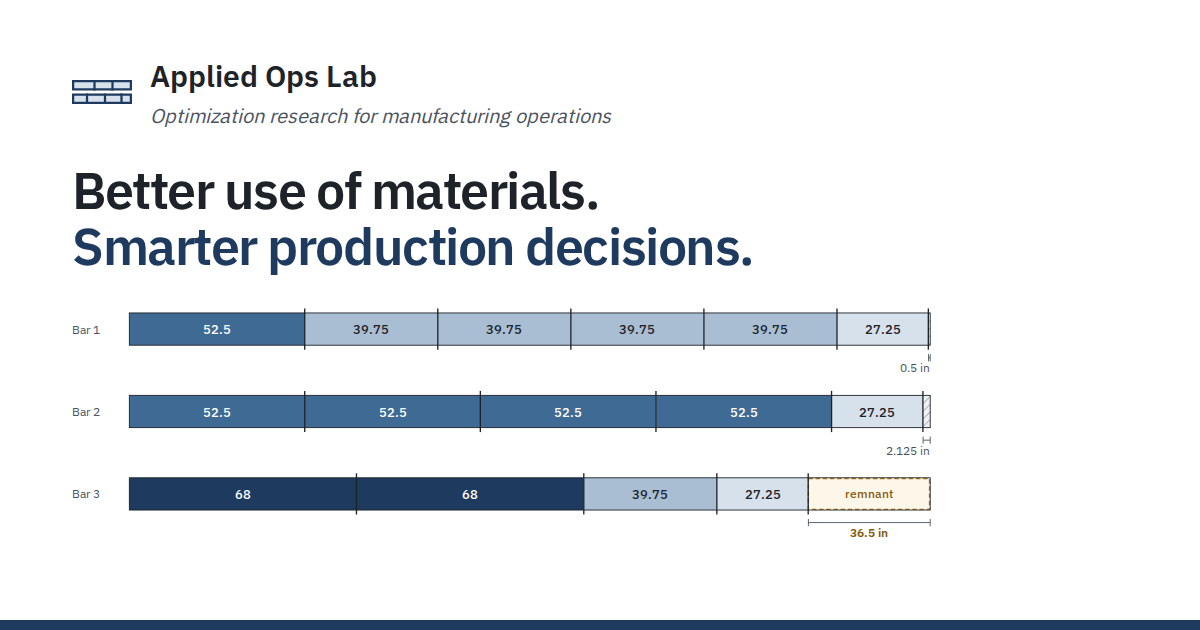
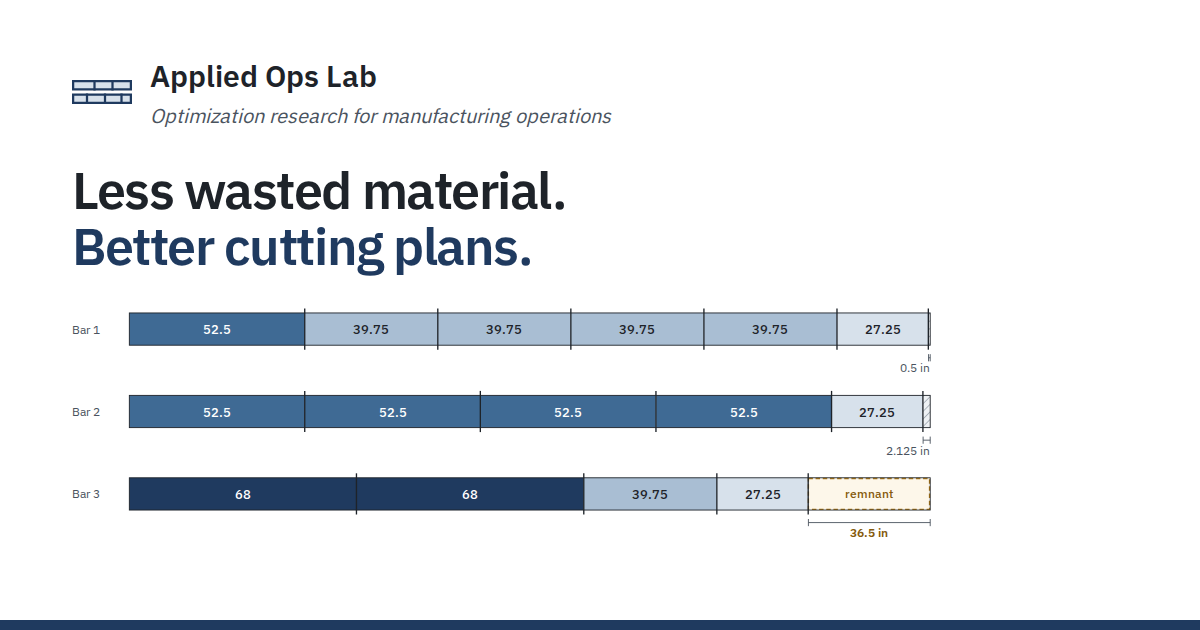
Refine copy for fabrication-shop outreach
- Hero: "Less wasted material. Better cutting plans." with a description
  centred on cutting-stock utilization and reusable offcuts.
- About: introduce Greg as the researcher behind Applied Ops Lab.
- Contact: ask whether cutting plans are still adjusted by hand, in a
  conversational, no-pitch tone. Email link and subject unchanged.
- Figure 1: explain beneath the diagram that both plans use the same
  stock and planning across orders preserves one larger remnant.
- Research areas: label remnant reuse as secondary, scheduling as
  exploratory.
- Update meta/OG descriptions and regenerate the OG image.
- Build: fail if the data stops supporting the figure's explanation
  (equal bar counts, one reusable remnant only when planned).

Changed region(s): [[0.0617, 0.3619, 0.6167, 0.4524], [0.0617, 0.2714, 0.4933, 0.3317]]

diff --git a/src/index.html b/src/index.html
@@ -4,14 +4,14 @@
   <meta charset="utf-8">
   <meta name="viewport" content="width=device-width, initial-scale=1">
   <title>Applied Ops Lab | Practical Manufacturing Optimization Research</title>
-  <meta name="description" content="Applied Ops Lab is an independent applied optimization research initiative in Morris County, New Jersey, studying cutting plans, material remnants, and production scheduling in fabrication shops.">
+  <meta name="description" content="Applied Ops Lab is independent optimization research in Morris County, New Jersey, exploring cutting-stock plans, reusable offcuts, and production planning for fabrication shops.">
   <link rel="canonical" href="https://appliedopslab.com/">
   <meta name="theme-color" content="#ffffff">
 
   <meta property="og:type" content="website">
   <meta property="og:site_name" content="Applied Ops Lab">
   <meta property="og:title" content="Applied Ops Lab | Practical Manufacturing Optimization Research">
-  <meta property="og:description" content="Independent applied optimization research on cutting plans, material waste, and production scheduling for manufacturing shops. Morris County, New Jersey.">
+  <meta property="og:description" content="Independent optimization research on cutting plans, reusable offcuts, and production planning for fabrication shops. Morris County, New Jersey.">
   <meta property="og:url" content="https://appliedopslab.com/">
   <meta property="og:image" content="https://appliedopslab.com/og-image.png">
   <meta property="og:image:width" content="1200">
@@ -53,11 +53,11 @@
     <section class="hero" id="top" aria-labelledby="hero-title">
       <div class="wrap">
         <h1 id="hero-title" class="hero-title">
-          <span>Better use of materials.</span>
-          <span>Smarter production decisions.</span>
+          <span>Less wasted material.</span>
+          <span>Better cutting plans.</span>
         </h1>
-        <p class="hero-lede">Exploring practical optimization methods to help manufacturing shops reduce material waste, improve cutting plans, and simplify complex production decisions.</p>
-        <p class="hero-meta">Independent applied optimization research <span class="sep" aria-hidden="true">|</span> Morris County, New Jersey</p>
+        <p class="hero-lede">Exploring practical ways to improve cutting-stock utilization, manage reusable offcuts, and simplify production planning for fabrication shops.</p>
+        <p class="hero-meta">Independent optimization research <span class="sep" aria-hidden="true">|</span> Morris County, New Jersey</p>
         <a class="button" href="#contact">Share Your Experience</a>
 
         <div class="hero-rule">
@@ -80,7 +80,7 @@
         <figure class="sheet" aria-labelledby="fig-title">
           <div class="sheet-head">
             <p class="sheet-title" id="fig-title">Figure 1. The same <!--@order-count--> orders, cut two ways</p>
-            <p class="sheet-intro"><!--@part-count--> parts from <!--@order-count--> customer orders, cut from <!--@stock-feet-->&nbsp;ft bars. Both patterns use the same stock and leave the same total offcut. What differs is the shape of what is left over.</p>
+            <p class="sheet-intro"><!--@part-count--> parts from <!--@order-count--> customer orders, cut from <!--@stock-feet-->&nbsp;ft bars.</p>
           </div>
 
           <div class="panels">
@@ -95,6 +95,8 @@
               <p class="panel-caption"><!--@caption:planned--></p>
             </div>
           </div>
+
+          <p class="sheet-takeaway">Both cutting plans use the same amount of stock. The difference is that planning across orders preserves one larger remnant that may be useful for a future job.</p>
 
           <figcaption class="title-block">
             <div class="tb-cell tb-parts">
@@ -121,13 +123,15 @@
         </figure>
 
         <div class="focus-secondary">
-          <p class="focus-secondary-label">Secondary areas, at an exploratory stage</p>
+          <p class="focus-secondary-label">Related areas</p>
           <div class="focus-grid">
             <article aria-labelledby="focus-remnant">
+              <p class="focus-level">Secondary focus</p>
               <h3 id="focus-remnant">Material Waste &amp; Remnant Reuse</h3>
               <p>Investigating how shops manage leftover material and whether practical optimization could improve material utilization beyond existing workflows.</p>
             </article>
             <article aria-labelledby="focus-scheduling">
+              <p class="focus-level">Exploratory</p>
               <h3 id="focus-scheduling">Production Scheduling</h3>
               <p>Exploring how shops coordinate machine availability, setup times, urgent jobs, and delivery deadlines when planning becomes difficult.</p>
             </article>
@@ -138,20 +142,22 @@
 
     <section class="section about" id="about" aria-labelledby="about-title">
       <div class="wrap split">
-        <h2 id="about-title" class="section-title">Independent Research. Practical Problems.</h2>
+        <h2 id="about-title" class="section-title">About the Researcher</h2>
         <div class="prose">
-          <p>Applied Ops Lab is an independent research initiative based in Morris County, New Jersey, exploring how mathematical optimization can address practical challenges in manufacturing operations.</p>
-          <p>The current focus is understanding how fabrication shops plan cutting jobs, manage material remnants, and handle production constraints—and where existing software still leaves room for manual work.</p>
+          <p>I’m Greg, the independent researcher behind Applied Ops Lab, based in Morris County, New Jersey.</p>
+          <p>I’m interested in how mathematical optimization can address practical manufacturing problems—particularly cutting plans, reusable material, and production constraints.</p>
+          <p>Right now, I’m learning from local fabrication shops about the planning challenges that existing software doesn’t fully address.</p>
         </div>
       </div>
     </section>
 
     <section class="section contact" id="contact" aria-labelledby="contact-title">
       <div class="wrap split">
-        <h2 id="contact-title" class="section-title">How Does Your Shop Handle Cutting Plans?</h2>
+        <h2 id="contact-title" class="section-title">Does Your Shop Still Adjust Cutting Plans Manually?</h2>
         <div class="prose">
-          <p>I’m currently speaking with fabrication professionals to understand how cutting plans and material utilization are managed in real-world operations.</p>
-          <p>Does your shop rely on dedicated cutting software, spreadsheets, or manual adjustments? I’d welcome a brief exchange about what works well and what remains difficult.</p>
+          <p>I’m speaking with local fabrication professionals to understand how they handle multiple orders, different stock lengths, and reusable offcuts.</p>
+          <p>Does your cutting software handle these situations well, or are there still cases where someone on the shop floor finds a better arrangement?</p>
+          <p>I’d welcome a brief exchange—no sales pitch, just a practical conversation about what works and what doesn’t.</p>
           <!-- Cloudflare's Email Address Obfuscation would replace these links with
                a script-decoded placeholder, which the no-script CSP blocks. -->
           <!--email_off-->

diff --git a/src/styles.css b/src/styles.css
@@ -412,6 +412,13 @@ a:hover {
   }
 }
 
+.focus-level {
+  margin-bottom: 0.25rem;
+  font-size: 0.8125rem;
+  font-weight: 500;
+  color: var(--ink-2);
+}
+
 .focus-grid h3 {
   font-size: 1.25rem;
   font-weight: 600;
@@ -451,6 +458,12 @@ a:hover {
 
 .panels {
   display: grid;
+}
+
+.sheet-takeaway {
+  padding: 0.25rem clamp(1rem, 0.5rem + 2vw, 2rem) 1.5rem;
+  max-width: 50rem;
+  font-weight: 500;
 }
 
 .panel {
